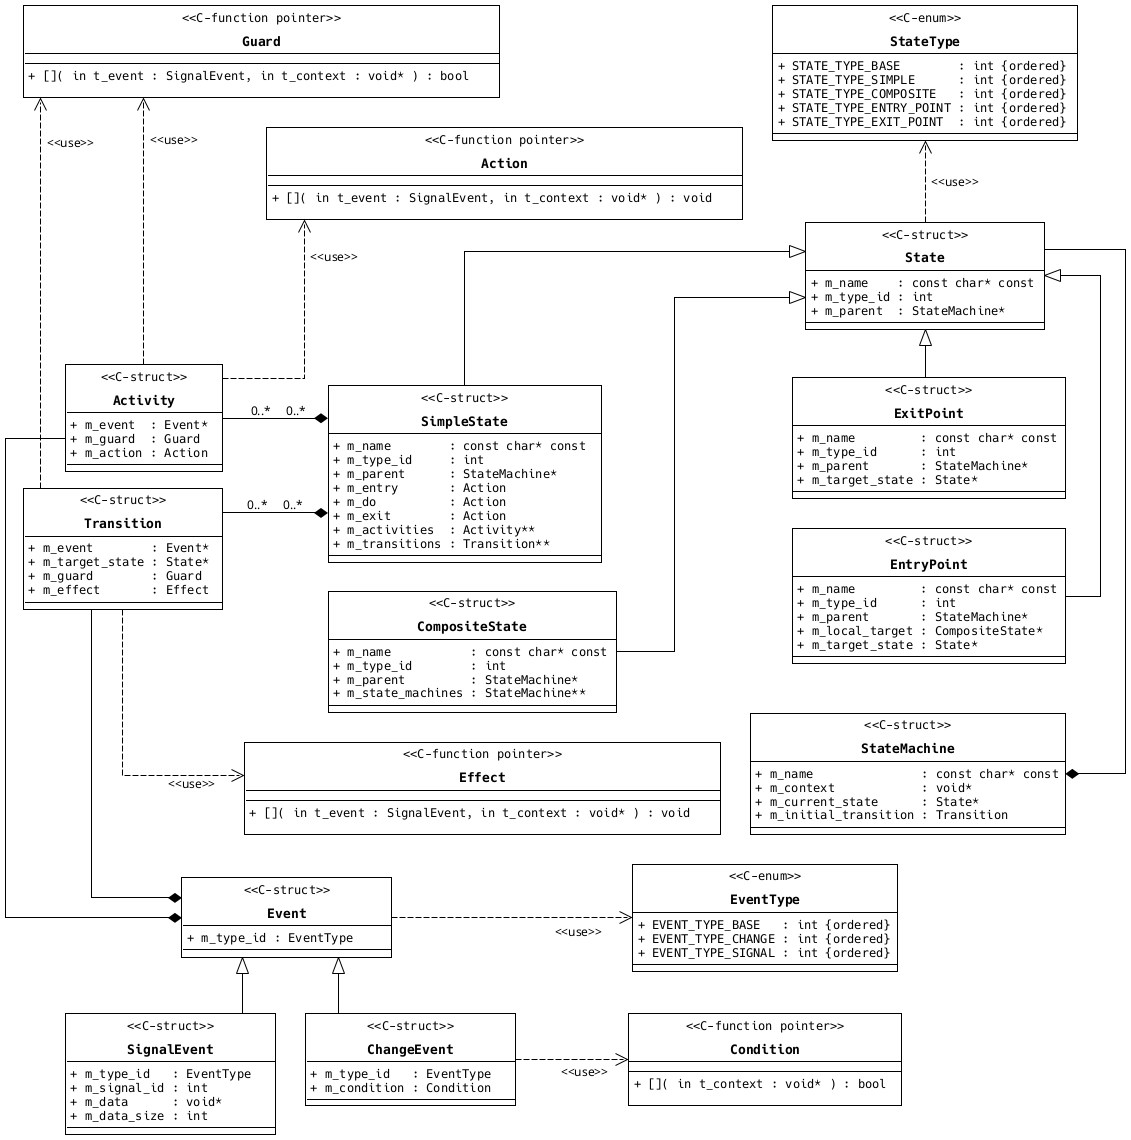
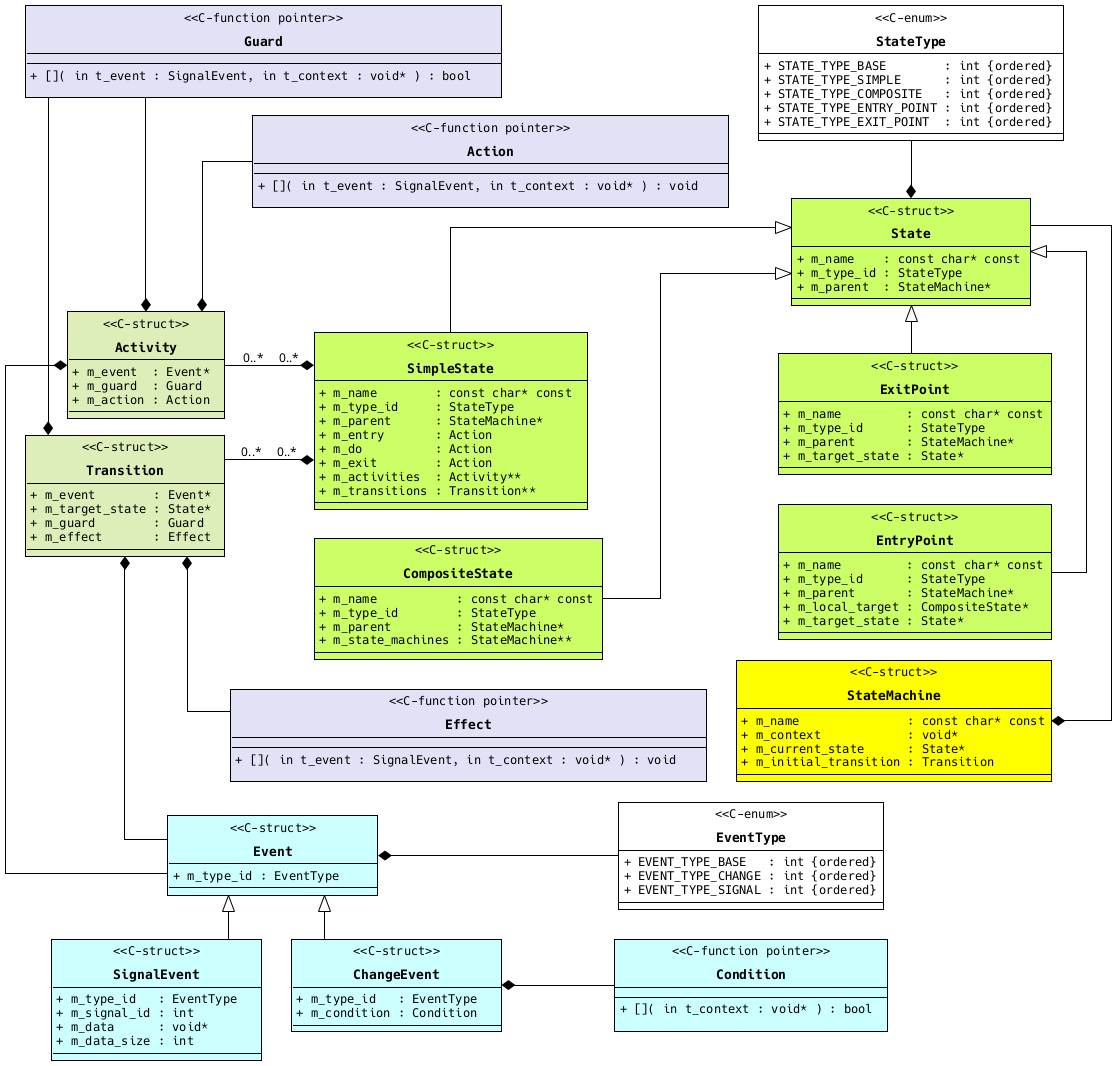
Klassendiagramm verbessert. Int durch enum ersetzt.

diff --git a/src/automat.h b/src/automat.h
@@ -110,13 +110,13 @@ struct STransition {
 
 struct SState {
   const char * const m_name;
-  int                m_type_id;
+  StateType          m_type_id;
   StateMachine *     m_parent;
 };
 
 struct SSimpleState {
   const char * const m_name;
-  int                m_type_id;
+  StateType          m_type_id;
   StateMachine *     m_parent;
   Action             m_entry;
   Action             m_do;
@@ -127,14 +127,14 @@ struct SSimpleState {
 
 struct SCompositeState {
   const char * const m_name;
-  int                m_type_id;
+  StateType          m_type_id;
   StateMachine *     m_parent;
   StateMachine **    m_state_machines;
 };
 
 struct SEntryPoint {
   const char * const m_name;
-  int                m_type_id;
+  StateType          m_type_id;
   StateMachine *     m_parent;
   CompositeState *   m_local_target;
   State *            m_target_state;
@@ -142,7 +142,7 @@ struct SEntryPoint {
 
 struct SExitPoint {
   const char * const m_name;
-  int                m_type_id;
+  StateType          m_type_id;
   StateMachine *     m_parent;
   State *            m_target_state;
 };
